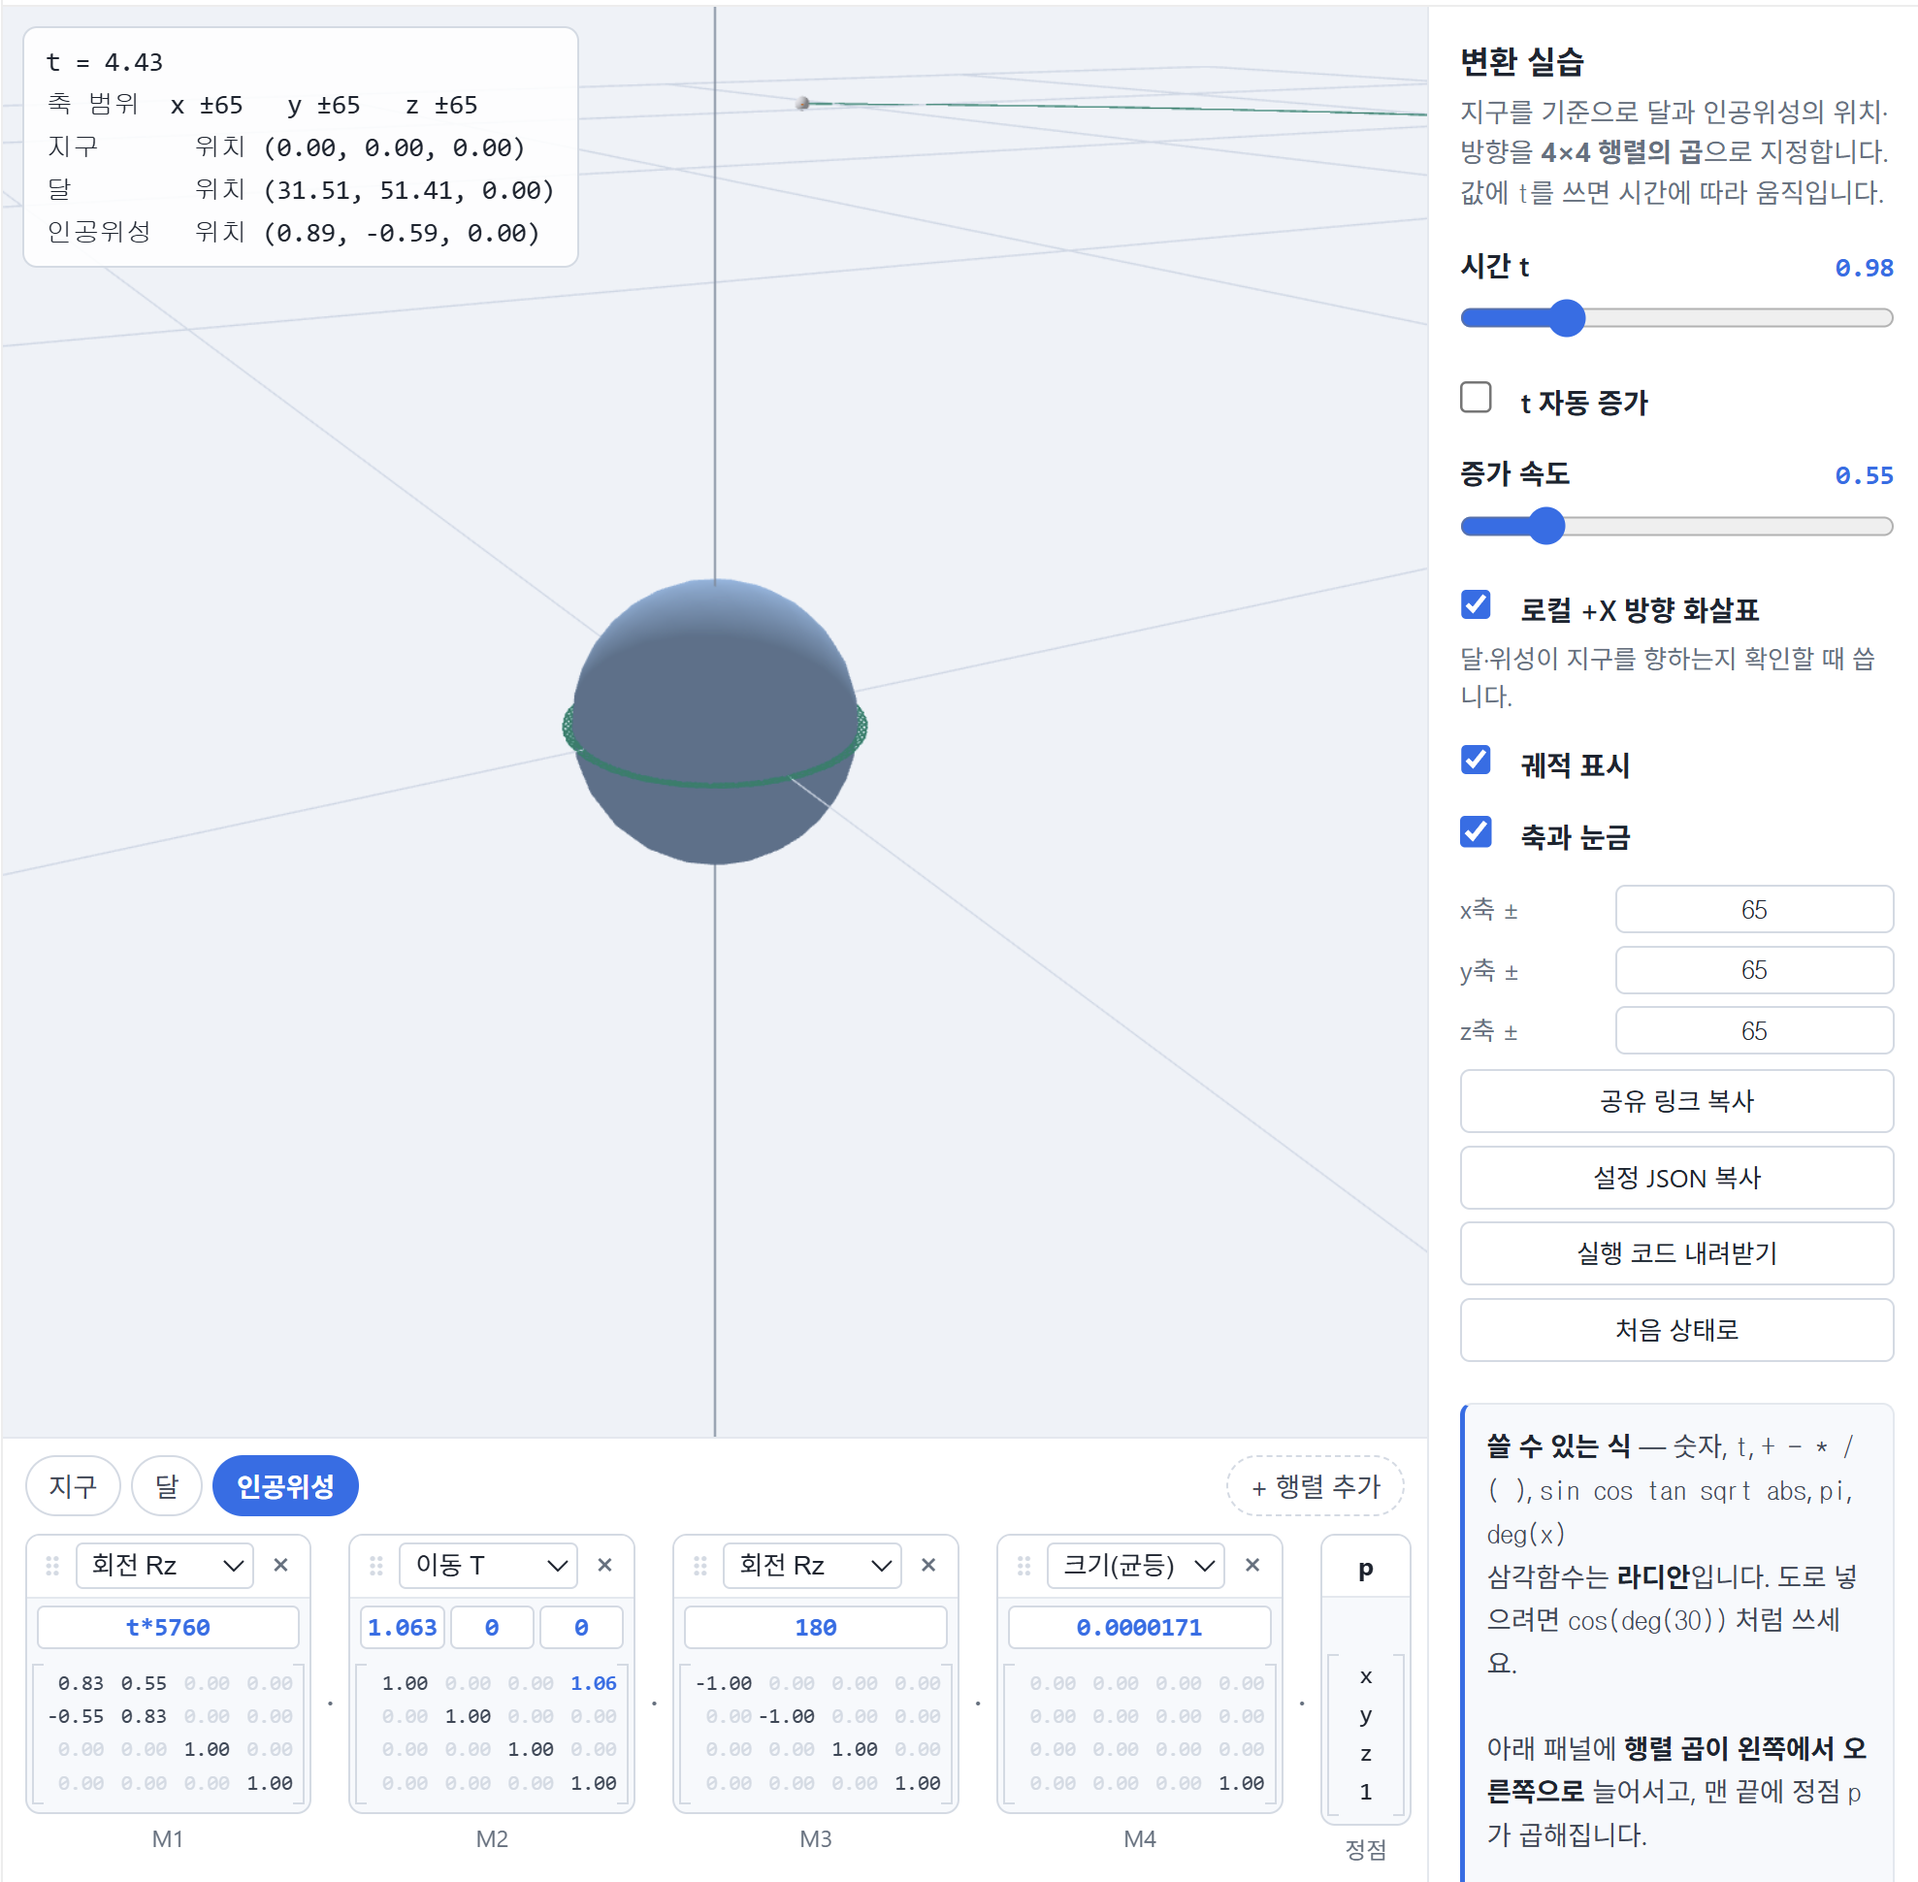
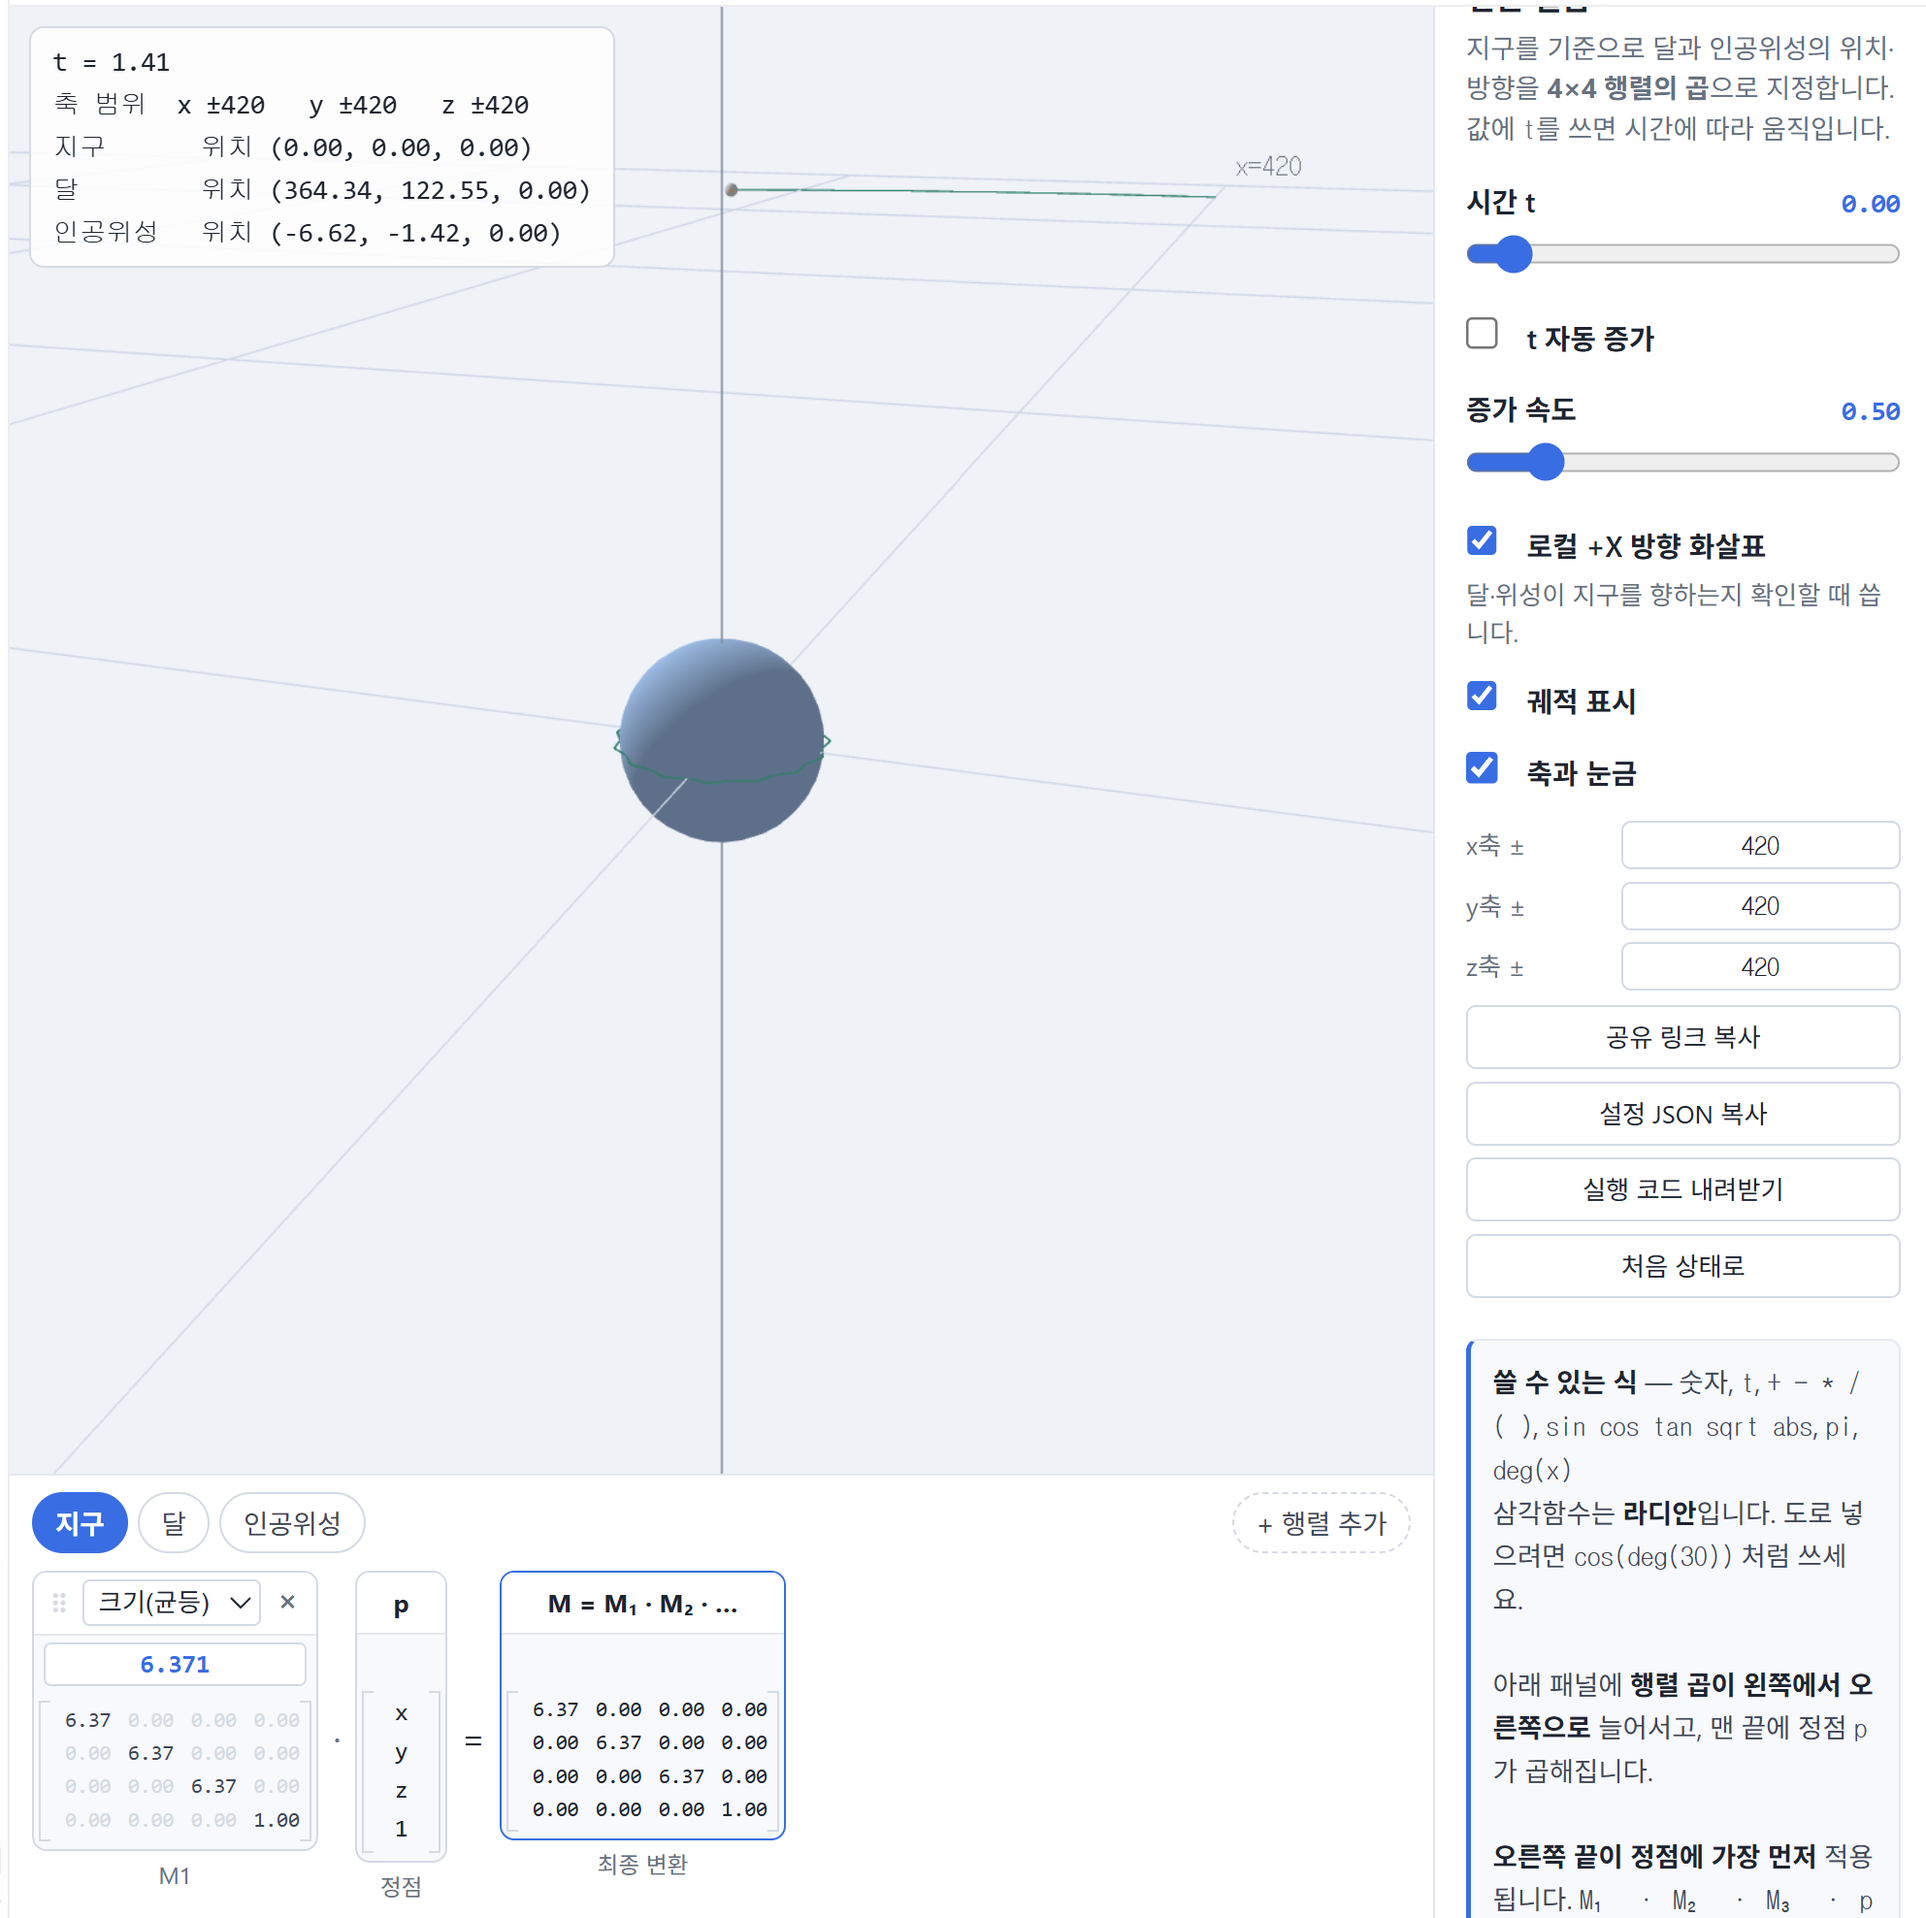
2주차 교수님 과제 수정에 따른 수정

diff --git a/week2/task2.html b/week2/task2.html
@@ -56,30 +56,30 @@ const deg = d => d * Math.PI / 180;
 /* 지구 — 실습 도구에서 놓은 순서 그대로입니다 */
 function earthMatrix(t) {
   let M = M4.identity(M4.create());
-  M = M4.scale(M, M, [1 / 65, 1 / 65, 1 / 65]);   // 크기(균등) 1/65배
+  M = M4.scale(M, M, [1 / 420, 1 / 420, 1 / 420]);   // 크기(균등) 1/420배
+  M = M4.scale(M, M, [6.371, 6.371, 6.371]);   // 크기(균등) 6.371배
   return M;
 }
 
 /* 달 — 실습 도구에서 놓은 순서 그대로입니다 */
 function moonMatrix(t) {
   let M = M4.identity(M4.create());
-  M = M4.scale(M, M, [1 / 65, 1 / 65, 1 / 65]);   // 크기(균등) 1/65배
+  M = M4.scale(M, M, [1 / 420, 1 / 420, 1 / 420]);   // 크기(균등) 1/420배
   M = M4.rotateZ(M, M, deg(t * 13.2));   // 회전 Rz(t*13.2도)
-  M = M4.translate(M, M, [60.3, 0, 0]);   // 이동 T(60.3, 0, 0)
+  M = M4.translate(M, M, [384.4, 0, 0]);   // 이동 T(384.4, 0, 0)
   M = M4.rotateZ(M, M, deg(180));   // 회전 Rz(180도)
-  M = M4.scale(M, M, [0.273, 0.273, 0.273]);   // 크기(균등) 0.273배
+  M = M4.scale(M, M, [1.737, 1.737, 1.737]);   // 크기(균등) 1.737배
   return M;
 }
 
 /* 인공위성 — 실습 도구에서 놓은 순서 그대로입니다 */
 function satelliteMatrix(t) {
   let M = M4.identity(M4.create());
-  M = M4.scale(M, M, [1 / 65, 1 / 65, 1 / 65]);   // 크기(균등) 1/65배
+  M = M4.scale(M, M, [1 / 420, 1 / 420, 1 / 420]);   // 크기(균등) 1/420배
   M = M4.rotateZ(M, M, deg(t * 5760));   // 회전 Rz(t*5760도)
-  M = M4.translate(M, M, [1.063, 0, 0]);   // 이동 T(1.063, 0, 0)
+  M = M4.translate(M, M, [6.771, 0, 0]);   // 이동 T(6.771, 0, 0)
   M = M4.rotateZ(M, M, deg(180));   // 회전 Rz(180도)
-  M = M4.scale(M, M, [0.0000171, 0.0000171, 0.0000171]);   // 크기(균등) 0.0000171배
-  M = M4.translate(M, M, [0, 0, 0]);   // 이동 T(0, 0, 0)
+  M = M4.scale(M, M, [0.000109, 0.000109, 0.000109]);   // 크기(균등) 0.000109배
   return M;
 }
 
@@ -95,7 +95,7 @@ const OBJECTS = [
 ];
 
 /* 시간이 흐르는 속도와 되돌아가는 지점 (실습 도구와 같은 규칙) */
-const T_SPEED = 0.5;
+const T_SPEED = 1.4;
 const T_MAX = 20;
 
 /* ══════════════════════════════════════════════════════════════════════════

diff --git a/week2/task1.html b/week2/task1.html
@@ -56,7 +56,7 @@ const deg = d => d * Math.PI / 180;
 /* 지구 — 실습 도구에서 놓은 순서 그대로입니다 */
 function earthMatrix(t) {
   let M = M4.identity(M4.create());
-  M = M4.scale(M, M, [1, 1, 1]);   // 크기(균등) 1배
+  M = M4.scale(M, M, [6.371, 6.371, 6.371]);   // 크기(균등) 6.371배
   return M;
 }
 
@@ -64,9 +64,9 @@ function earthMatrix(t) {
 function moonMatrix(t) {
   let M = M4.identity(M4.create());
   M = M4.rotateZ(M, M, deg(t * 13.2));   // 회전 Rz(t*13.2도)
-  M = M4.translate(M, M, [60.3, 0, 0]);   // 이동 T(60.3, 0, 0)
+  M = M4.translate(M, M, [384.4, 0, 0]);   // 이동 T(384.4, 0, 0)
   M = M4.rotateZ(M, M, deg(180));   // 회전 Rz(180도)
-  M = M4.scale(M, M, [0.273, 0.273, 0.273]);   // 크기(균등) 0.273배
+  M = M4.scale(M, M, [1.737, 1.737, 1.737]);   // 크기(균등) 1.737배
   return M;
 }
 
@@ -74,15 +74,15 @@ function moonMatrix(t) {
 function satelliteMatrix(t) {
   let M = M4.identity(M4.create());
   M = M4.rotateZ(M, M, deg(t * 5760));   // 회전 Rz(t*5760도)
-  M = M4.translate(M, M, [1.063, 0, 0]);   // 이동 T(1.063, 0, 0)
+  M = M4.translate(M, M, [6.771, 0, 0]);   // 이동 T(6.771, 0, 0)
   M = M4.rotateZ(M, M, deg(180));   // 회전 Rz(180도)
-  M = M4.scale(M, M, [0.0000171, 0.0000171, 0.0000171]);   // 크기(균등) 0.0000171배
+  M = M4.scale(M, M, [0.000109, 0.000109, 0.000109]);   // 크기(균등) 0.000109배
   return M;
 }
 
 
 /* 축의 표시 범위 — 실습 도구의 「축 범위」 값입니다. */
-const RANGE = { x: 65, y: 65, z: 65 };
+const RANGE = { x: 420, y: 420, z: 420 };
 
 /* 물체 목록 — 색과 모양, 그리고 위에서 정의한 변환 함수를 묶습니다. */
 const OBJECTS = [
@@ -92,7 +92,7 @@ const OBJECTS = [
 ];
 
 /* 시간이 흐르는 속도와 되돌아가는 지점 (실습 도구와 같은 규칙) */
-const T_SPEED = 0.05;
+const T_SPEED = 0.5;
 const T_MAX = 20;
 
 /* ══════════════════════════════════════════════════════════════════════════
